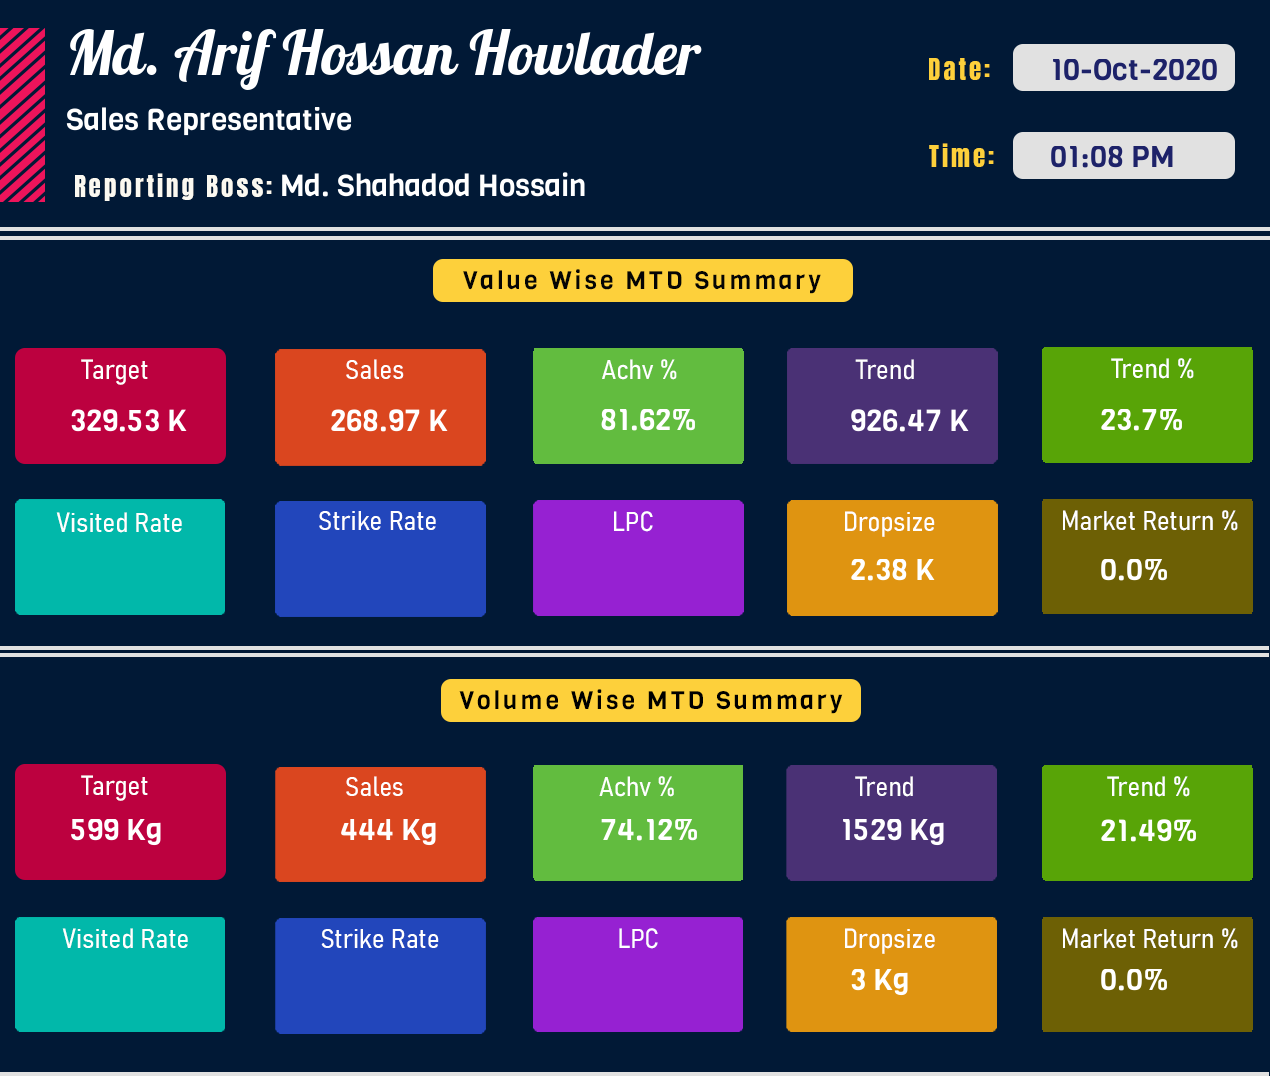
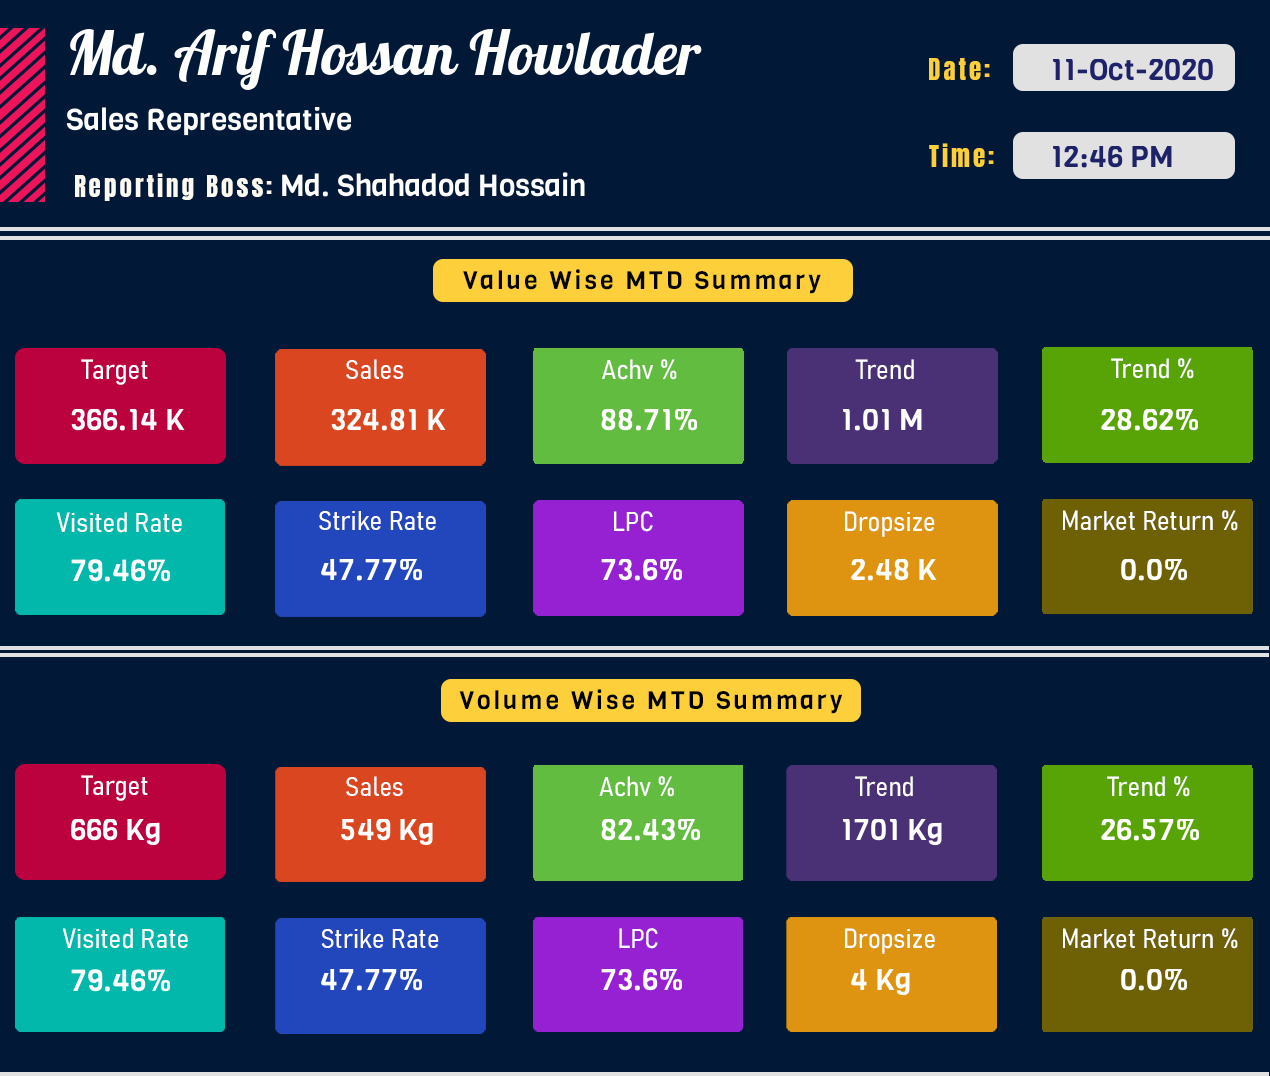
complete all KPI for dashboard

diff --git a/Functions/kpi.py b/Functions/kpi.py
@@ -10,17 +10,19 @@ conn = db.connect('DRIVER={SQL Server};'
                   'UID=sa;'
                   'PWD=erp;')
 
+
 def currency_converter(num):
     num_size = len(str(num))
     if num_size >= 8:
-        number = str(round((num / 10000000), 2))+' Cr'
+        number = str(round((num / 10000000), 2)) + ' Cr'
     elif num_size >= 7:
-        number = str(round(num / 1000000, 2))+' M'
+        number = str(round(num / 1000000, 2)) + ' M'
     elif num_size >= 4:
-        number = str(round(num / 1000, 2)) +' K'
+        number = str(round(num / 1000, 2)) + ' K'
     else:
         number = num
     return number
+
 
 # # -------- Total value and Weight Target  -----------------------------------
 # # ---------------------------------------------------------------------------
@@ -34,8 +36,6 @@ target_df = pd.read_sql_query(""" select  isnull(sum(targetvalue), 0) as TargetV
 
 total_val_target = int(target_df.TargetVal)
 total_weight_target = int(target_df.TargetKg)
-
-
 
 # # ---------- Total Sales in KG and Values -----------------------------------------
 # # ---------------------------------------------------------------------------------
@@ -183,28 +183,27 @@ designation = profile_df.SRDESIGNATION.loc[0]
 sales_val = int(sum(profile_df.SalesVal))
 sales_kg = int(sum(profile_df.SalesKg))
 
-
 # # -------- Trends Calculation ----------------
 date = datetime.datetime.now()
-current_day = int(date.strftime("%d"))-1
+current_day = int(date.strftime("%d")) - 1
 days_in_month = max(monthrange(int(date.strftime("%Y")), int(date.strftime("%m"))))
 
-mtd_avg_sales = sales_val/int(current_day)
+mtd_avg_sales = sales_val / int(current_day)
 each_day_target = total_val_target / int(days_in_month)
-each_day_sales =  sales_val/ int(current_day)
+each_day_sales = sales_val / int(current_day)
 
-trend_percent = round((sales_val*100)/total_val_target, 2)
+trend_percent = round((sales_val * 100) / total_val_target, 2)
 print('Trend % = ', trend_percent)
-trend_val = round((each_day_sales*days_in_month), 2)
+trend_val = round((each_day_sales * days_in_month), 2)
 print('Trend Val = ', trend_val)
 
 # # ----------- Trend Weight ---------------------------------
 
-w_trend_per = round((sales_kg*100/total_weight_target), 2)
+w_trend_per = round((sales_kg * 100 / total_weight_target), 2)
 print('Weight trend percent = ', w_trend_per)
 
-each_day_sales_kg =  sales_kg/ int(current_day)
-trend_val_kg = round((each_day_sales_kg*days_in_month), 2)
+each_day_sales_kg = sales_kg / int(current_day)
+trend_val_kg = round((each_day_sales_kg * days_in_month), 2)
 print('Trend in Kg = ', trend_val_kg)
 
 # # -------- Invoice count ----------------------------------
@@ -215,6 +214,44 @@ invoice_df = pd.read_sql_query(""" select count(InvoiceID) as TotalInvoice
             and convert(varchar(10),DATEADD(D,0,GETDATE()-1),126) """, conn)
 
 total_invoice = int(invoice_df.TotalInvoice)
-val_drop_size = int(sales_val/total_invoice)
-w_drop_size   = int(sales_kg/total_invoice)
+val_drop_size = int(sales_val / total_invoice)
+w_drop_size = int(sales_kg / total_invoice)
 
+# # ------------------- Strike Rate ---------------------------
+total_cust_df = pd.read_sql_query("""select count(customerid) as TotalCustomer from Customers
+where routeid in (select distinct routeid from SalesInvoices where InvoiceDate between  convert(varchar(10),DATEADD(mm, DATEDIFF(mm, 0, GETDATE()), 0),126)
+and convert(varchar(10),DATEADD(D,0,GETDATE()-1),126) and srid=22) """, conn)
+
+total_cust = int(total_cust_df.TotalCustomer)
+
+effective_cust_df = pd.read_sql_query(""" select count(distinct CustomerID) as EffectiveCust 
+            from SalesInvoices 
+            where srid=22 and InvoiceDate between  convert(varchar(10),DATEADD(mm, DATEDIFF(mm, 0, GETDATE()), 0),126)
+            and convert(varchar(10),DATEADD(D,0,GETDATE()-1),126) """, conn)
+
+effective_cust = int(effective_cust_df.EffectiveCust)
+
+strike_rate = round((effective_cust / total_cust) * 100, 2)
+print('Strike Rate = ', strike_rate)
+
+# # -------------------------- Visit Rate ----------------------------------
+
+visit_cust_df = pd.read_sql_query("""select count(distinct CustomerID) as VisitCust
+                from SalesOrders 
+                where srid = 22 and OrderDate between convert(varchar(10),DATEADD(mm, DATEDIFF(mm, 0, GETDATE()), 0),126)
+                and convert(varchar(10),DATEADD(D,0,GETDATE()-1),126) """, conn)
+visited_cust = int(visit_cust_df.VisitCust)
+
+visit_rate = round((visited_cust / total_cust) * 100, 2)
+print('Visit Rate = ', visit_rate)
+
+# # ------------------ LPC --------------------------------------------------
+
+inv_df = pd.read_sql_query(""" select  count(distinct InvoiceID) as TotalInvoice from SalesInvoices
+        where srid=22 and InvoiceDate between  convert(varchar(10),DATEADD(mm, DATEDIFF(mm, 0, GETDATE()), 0),126)
+        and convert(varchar(10),DATEADD(D,0,GETDATE()-1),126)""", conn)
+
+total_inv = int(inv_df.TotalInvoice)
+
+lpc = round((total_inv / visited_cust) * 100, 2)
+print('LPC is     = ', lpc)

diff --git a/Functions/dashboard.py b/Functions/dashboard.py
@@ -37,6 +37,10 @@ achivL = ImageDraw.Draw(img)
 returnL = ImageDraw.Draw(img)
 trendVal = ImageDraw.Draw(img)
 trendPer = ImageDraw.Draw(img)
+visitV = ImageDraw.Draw(img)
+strike = ImageDraw.Draw(img)
+lpc = ImageDraw.Draw(img)
+
 drop_size_val = ImageDraw.Draw(img)
 
 
@@ -47,6 +51,8 @@ achivL = ImageDraw.Draw(img)
 returnL = ImageDraw.Draw(img)
 trendW = ImageDraw.Draw(img)
 trendValW = ImageDraw.Draw(img)
+visitW = ImageDraw.Draw(img)
+
 drop_sizeW = ImageDraw.Draw(img)
 
 # # ---------------------------------------------
@@ -75,13 +81,17 @@ trendval = kpi.currency_converter(int(kpi.trend_val))
 targetL.text((70, 400),  str(target) , (255, 255, 255), font=Viga)
 salesL.text((330, 400),  str(sales) , (255, 255, 255), font=Viga)
 achivL.text((600, 400),  str(achiv) +"%", (255, 255, 255), font=Viga)
-trendVal.text((850, 400),  str(trendval) , (255, 255, 255), font=Viga)
+trendVal.text((840, 400),  str(trendval) , (255, 255, 255), font=Viga)
 trendPer.text((1100, 400),  str(kpi.trend_percent) + "%"  , (255, 255, 255), font=Viga)
 
 
 val_return_p = round((kpi.total_val_return/kpi.sales_val)*100, 2)
+
+visitV.text((70, 550), str(kpi.visit_rate) + '%' , (255, 255, 255), font=Viga)
+strike.text((320, 550), str(kpi.strike_rate) + '%' , (255, 255, 255), font=Viga)
+lpc.text((600, 550), str(kpi.lpc) + '%' , (255, 255, 255), font=Viga)
 drop_size_val.text((850, 550), str(kpi.currency_converter(kpi.val_drop_size)) , (255, 255, 255), font=Viga)
-returnL.text((1100, 550),  str(val_return_p) +"%", (255, 255, 255), font=Viga)
+returnL.text((1120, 550),  str(val_return_p) +"%", (255, 255, 255), font=Viga)
 
 
 
@@ -99,7 +109,10 @@ trendW.text((840, 810),  str(int(kpi.trend_val_kg)) + ' Kg', (255, 255, 255), fo
 trendValW.text((1100, 810),  str(kpi.w_trend_per) + "%"  , (255, 255, 255), font=Viga)
 
 
-returnL.text((1100, 960),  str(kg_return_p) +"%", (255, 255, 255), font=Viga)
+returnL.text((1120, 960),  str(kg_return_p) +"%", (255, 255, 255), font=Viga)
+visitW.text((70, 960),  str(kpi.visit_rate) +"%", (255, 255, 255), font=Viga)
+strike.text((320, 960), str(kpi.strike_rate) + '%' , (255, 255, 255), font=Viga)
+strike.text((600, 960), str(kpi.lpc) + '%' , (255, 255, 255), font=Viga)
 drop_sizeW.text((850, 960),  str(kpi.w_drop_size) +" Kg", (255, 255, 255), font=Viga)
 
 
